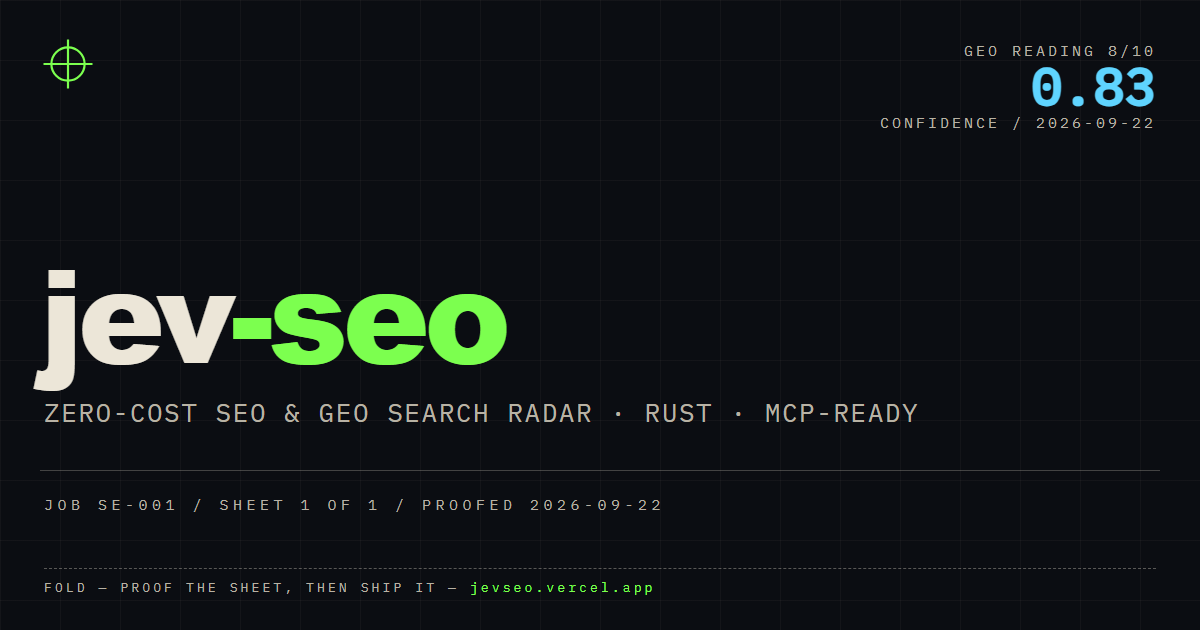
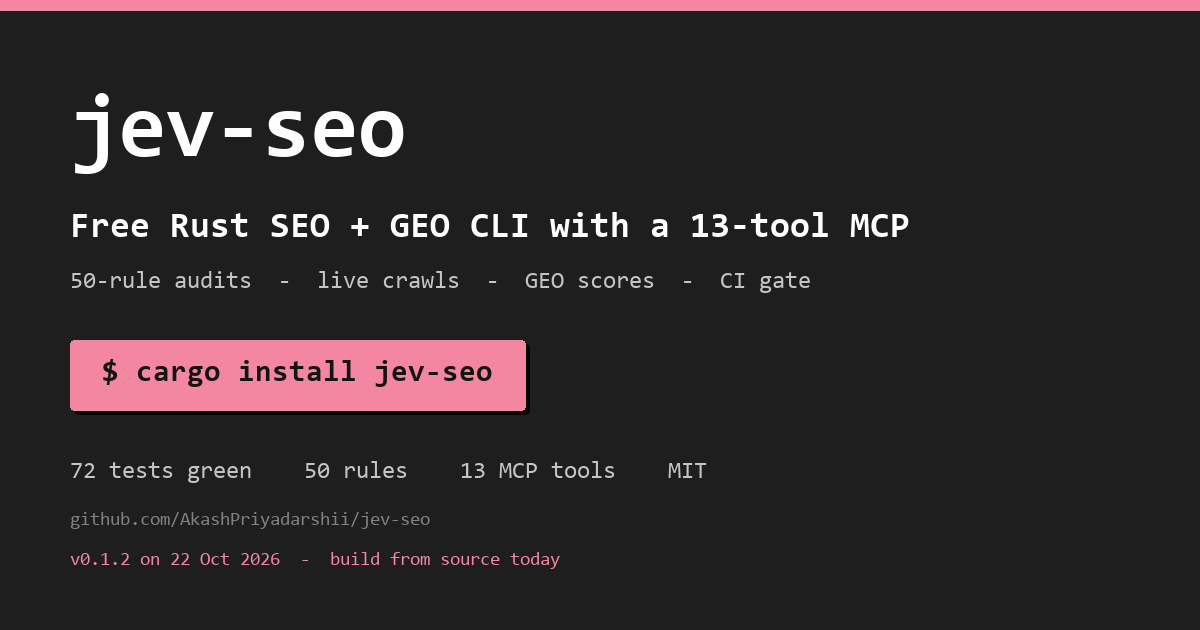
assets: sync TypeSafe-pink pack, 13 tools, OG image [skip ci]
Copy the 10-file master asset pack into site docs/assets. Swap the Seen gallery to new previews, bump 10 tools to 13, add bench rows for explain, report, and gsc. Regenerate og-image.png 1200x630 in the new style.

diff --git a/index.html b/index.html
@@ -164,6 +164,9 @@ FINISH: unreviewed and undocumented is unfinished; this build ends with the fini
         <div class="bench-row"><i class="bench-check"></i><code>jev-seo query "jev seo"</code><span class="bench-cap">competitor radar + rerank</span></div>
         <div class="bench-row"><i class="bench-check"></i><code>jev-seo rank --domain jevseo.vercel.app --query "jev seo"</code><span class="bench-cap">baseline in local SQLite</span></div>
         <div class="bench-row"><i class="bench-check"></i><code>jev-seo mcp</code><span class="bench-cap">stdio server into your agent</span></div>
+        <div class="bench-row"><i class="bench-check"></i><code>jev-seo explain R19</code><span class="bench-cap">rule card: area, severity, effort, fix</span></div>
+        <div class="bench-row"><i class="bench-check"></i><code>jev-seo report --baseline</code><span class="bench-cap">score delta between two audits</span></div>
+        <div class="bench-row"><i class="bench-check"></i><code>jev-seo gsc query --site</code><span class="bench-cap">Search Console clicks, free</span></div>
       </div>
     </div>
   </section>
@@ -190,7 +193,7 @@ FINISH: unreviewed and undocumented is unfinished; this build ends with the fini
       <div class="whyspec">
         <p class="whyspec-no">04</p>
         <h3>Agent native</h3>
-        <p>A stdio JSON-RPC 2.0 MCP server feeds the same 10 tools into Claude Code, Gemini CLI, and Antigravity. SEO as a capability, not a dashboard.</p>
+        <p>A stdio JSON-RPC 2.0 MCP server feeds the same 13 tools into Claude Code, Gemini CLI, and Antigravity. SEO as a capability, not a dashboard.</p>
       </div>
     </div>
   </section>
@@ -209,19 +212,24 @@ FINISH: unreviewed and undocumented is unfinished; this build ends with the fini
       <div class="cmd"><code>jev-seo sitemap sitemap.xml</code><span class="cmd-cap">50,000 URL limit, HTTPS canonical, hreflang en-GB not en-UK, x-default</span></div>
       <div class="cmd"><code>jev-seo keywords "scraper"</code><span class="cmd-cap">autocomplete discovery + Jev intent classification</span></div>
       <div class="cmd"><code>jev-seo rank --domain crates.io --query "rust grep"</code><span class="cmd-cap">rank drift tracked in local SQLite over time</span></div>
-      <div class="cmd"><code>jev-seo mcp</code><span class="cmd-cap">stdio MCP server → the 10 tools, straight into your coding agent</span></div>
+      <div class="cmd"><code>jev-seo mcp</code><span class="cmd-cap">stdio MCP server → the 13 tools, straight into your coding agent</span></div>
       <div class="cmd"><code>jev-seo crawl example.com --max-pages 50</code><span class="cmd-cap">parallel live crawl: health score, broken links, redirect chains, orphans, timing</span></div>
       <div class="cmd"><code>jev-seo llms example.com</code><span class="cmd-cap">llms.txt plus AI crawler scoring for answer-engine readiness</span></div>
       <div class="cmd"><code>jev-seo doctor</code><span class="cmd-cap">version, API key presence, database, platform in one check</span></div>
     </div>
   </section>
 
-  <!-- ============ SEE IT RUN (v0.1.1) ============ -->
+  <!-- ============ SEE IT RUN ============ -->
   <section class="seen" id="seen">
     <h2 class="h2">Seen on a real run</h2>
-    <p class="lede">v0.1.1 output. Health score with grades, impact-ranked actions, completeness notes.</p>
-    <figure style="margin:1.5rem 0"><img src="docs/assets/terminal.png" alt="jev-seo live crawl output with health score and ranked actions" style="max-width:100%;border-radius:10px" loading="lazy"></figure>
-    <figure style="margin:1.5rem 0"><img src="docs/assets/report.png" alt="jev-seo HTML audit report with grade scorecard" style="max-width:100%;border-radius:10px" loading="lazy"></figure>
+    <p class="lede">Health score with grades, impact-ranked actions, completeness notes. Scorecard, crawl session, action tracker, MCP surface.</p>
+    <figure style="margin:1.5rem 0"><img src="docs/assets/preview-summary.png" alt="jev-seo HTML audit scorecard, page table, and ranked findings" style="max-width:100%;border-radius:10px" loading="lazy"></figure>
+    <figure style="margin:1.5rem 0"><img src="docs/assets/preview-terminal.png" alt="jev-seo live crawl output with health score and ranked actions" style="max-width:100%;border-radius:10px" loading="lazy"></figure>
+    <figure style="margin:1.5rem 0"><img src="docs/assets/preview-actions.png" alt="jev-seo ranked action tracker with priority, impact, effort, quick-win flags" style="max-width:100%;border-radius:10px" loading="lazy"></figure>
+    <figure style="margin:1.5rem 0"><img src="docs/assets/preview-explain.png" alt="jev-seo explain rule card and report baseline score delta" style="max-width:100%;border-radius:10px" loading="lazy"></figure>
+    <figure style="margin:1.5rem 0"><img src="docs/assets/preview-mcp.png" alt="jev-seo MCP tools grid and client config block" style="max-width:100%;border-radius:10px" loading="lazy"></figure>
+    <figure style="margin:1.5rem 0"><img src="docs/assets/trust-strip.png" alt="jev-seo trust strip: 72 tests, 50 rules, 13 MCP tools, fast cold start, MIT, zero subscriptions" style="max-width:100%;border-radius:10px" loading="lazy"></figure>
+    <figure style="margin:1.5rem 0"><img src="docs/assets/cost-ladder.png" alt="jev-seo cost ladder: free path, capped Jev spend, opt-in paid backends, versus monthly SaaS seat" style="max-width:100%;border-radius:10px" loading="lazy"></figure>
   </section>
 
   <!-- ============ ORACLE ============ -->
@@ -335,7 +343,7 @@ FINISH: unreviewed and undocumented is unfinished; this build ends with the fini
       <p class="install-1"><span class="dim"># 1 — install (crates.io)</span><br><span class="ink-g">$</span> cargo install jev-seo</p>
       <p class="install-2"><span class="dim"># 2 — free oracle key for semantic scoring</span><br><span class="ink-g">$</span> export TYPESAFE_API_KEY=your_key_here</p>
     </div>
-    <p class="install-note">No credit card. No hosted dashboard. No telemetry. One binary, one local SQLite file, 30MB of RAM. v0.1.1 adds live-site crawl, llms.txt readiness, ranked fix actions, and HTML/PDF/Markdown reports.</p>
+    <p class="install-note">No credit card. No hosted dashboard. No telemetry. One binary, one local SQLite file, 30MB of RAM. v0.1.1 adds live-site crawl, llms.txt readiness, ranked fix actions, and HTML/PDF/Markdown reports. v0.1.2 (22 Oct 2026) adds explain, baseline diffs, action trackers, and MCP report tools.</p>
     <div class="install-cta">
       <a class="btn-primary" href="https://github.com/AkashPriyadarshii/jev-seo" target="_blank" rel="noopener">clone on github ↗</a>
       <a class="btn-ghost" href="https://crates.io/crates/jev-seo" target="_blank" rel="noopener">crates.io</a>

diff --git a/about.html b/about.html
@@ -45,7 +45,7 @@
 <p>Semrush and Ahrefs cost over $130 a month, and most free alternatives hide behind a paid data API. jev-seo scrapes free DuckDuckGo endpoints directly, audits local files on your machine, and scores AI citation likelihood through TypeSafe Jev. The result is a complete search radar that never asks for a credit card.</p>
 
 <h2>What it does</h2>
-<p>Ten commands cover the full workflow: live SERP competitor radar and content gap analysis (<code>query</code>), batch on-page audits that catch thin pages, title collisions, orphan links and AI slop (<code>audit</code>), GEO citation scoring from 1 to 10 (<code>geo</code>), Schema.org JSON-LD validation (<code>schema</code>), AI crawler permission checks for GPTBot, ClaudeBot and Google-Extended (<code>robots</code>), competitor SERP synthesis into ready-to-write briefs (<code>brief</code>), rank drift tracking in local SQLite (<code>rank</code>), sitemap validation (<code>sitemap</code>), autocomplete keyword discovery (<code>keywords</code>), and a stdio MCP server (<code>mcp</code>) that feeds all of them into Claude Code, Gemini CLI, and Antigravity.</p>
+<p>Ten commands cover the full workflow, with explain, report baselines, and Search Console pulls landing in v0.1.2: live SERP competitor radar and content gap analysis (<code>query</code>), batch on-page audits that catch thin pages, title collisions, orphan links and AI slop (<code>audit</code>), GEO citation scoring from 1 to 10 (<code>geo</code>), Schema.org JSON-LD validation (<code>schema</code>), AI crawler permission checks for GPTBot, ClaudeBot and Google-Extended (<code>robots</code>), competitor SERP synthesis into ready-to-write briefs (<code>brief</code>), rank drift tracking in local SQLite (<code>rank</code>), sitemap validation (<code>sitemap</code>), autocomplete keyword discovery (<code>keywords</code>), and a stdio MCP server (<code>mcp</code>) that feeds all of them into Claude Code, Gemini CLI, and Antigravity.</p>
 
 <h2>How the oracle works</h2>
 <p>TypeSafe Jev System One answers machine-native questions with machine-native types: <code>Score</code> for 1–10 ratings, <code>Noul</code> for calibrated probability, <code>Choice</code> for classification. The CLI does all arithmetic and counting; Jev does only semantic judgment. That split is the whole architecture, and it is why jev-seo flags real defects instead of writing confident paragraphs you then have to verify.</p>
